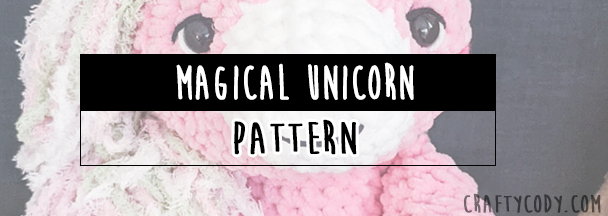
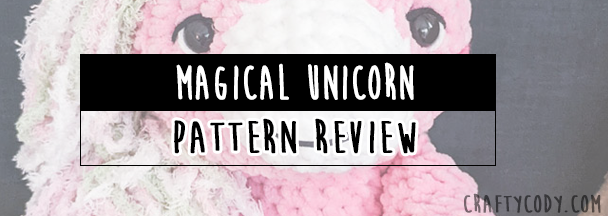
Update from Forestry.io Cody Kreul deleted static/uploads/ami-unicorn-pattern-review-header.png Cody Kreul created static/uploads/ami-unicorn-pattern-review-header.png Cody Kreul updated content/crochet/pattern-review-amigurumi-horse-unicorn.md

Changed region(s): [[0.2812, 0.5278, 0.6875, 0.7222]]

diff --git a/content/crochet/pattern-review-amigurumi-horse-unicorn.md b/content/crochet/pattern-review-amigurumi-horse-unicorn.md
@@ -19,7 +19,7 @@ These patterns are so wonderful. They use simple techniques and work up so quick
 
 ## Pattern
 
-The pattern itself is very similar to the elephant. It consists of all single crochet stitches (plus a few slip stitches) and works up quickly.
+The pattern itself is very similar to the elephant. It consists of all single crochet stitches (plus a few slip stitches) and works up quickly. I used a J-hook throughout.
 
 ![](/uploads/unicorn-unassembled.jpg)
 
